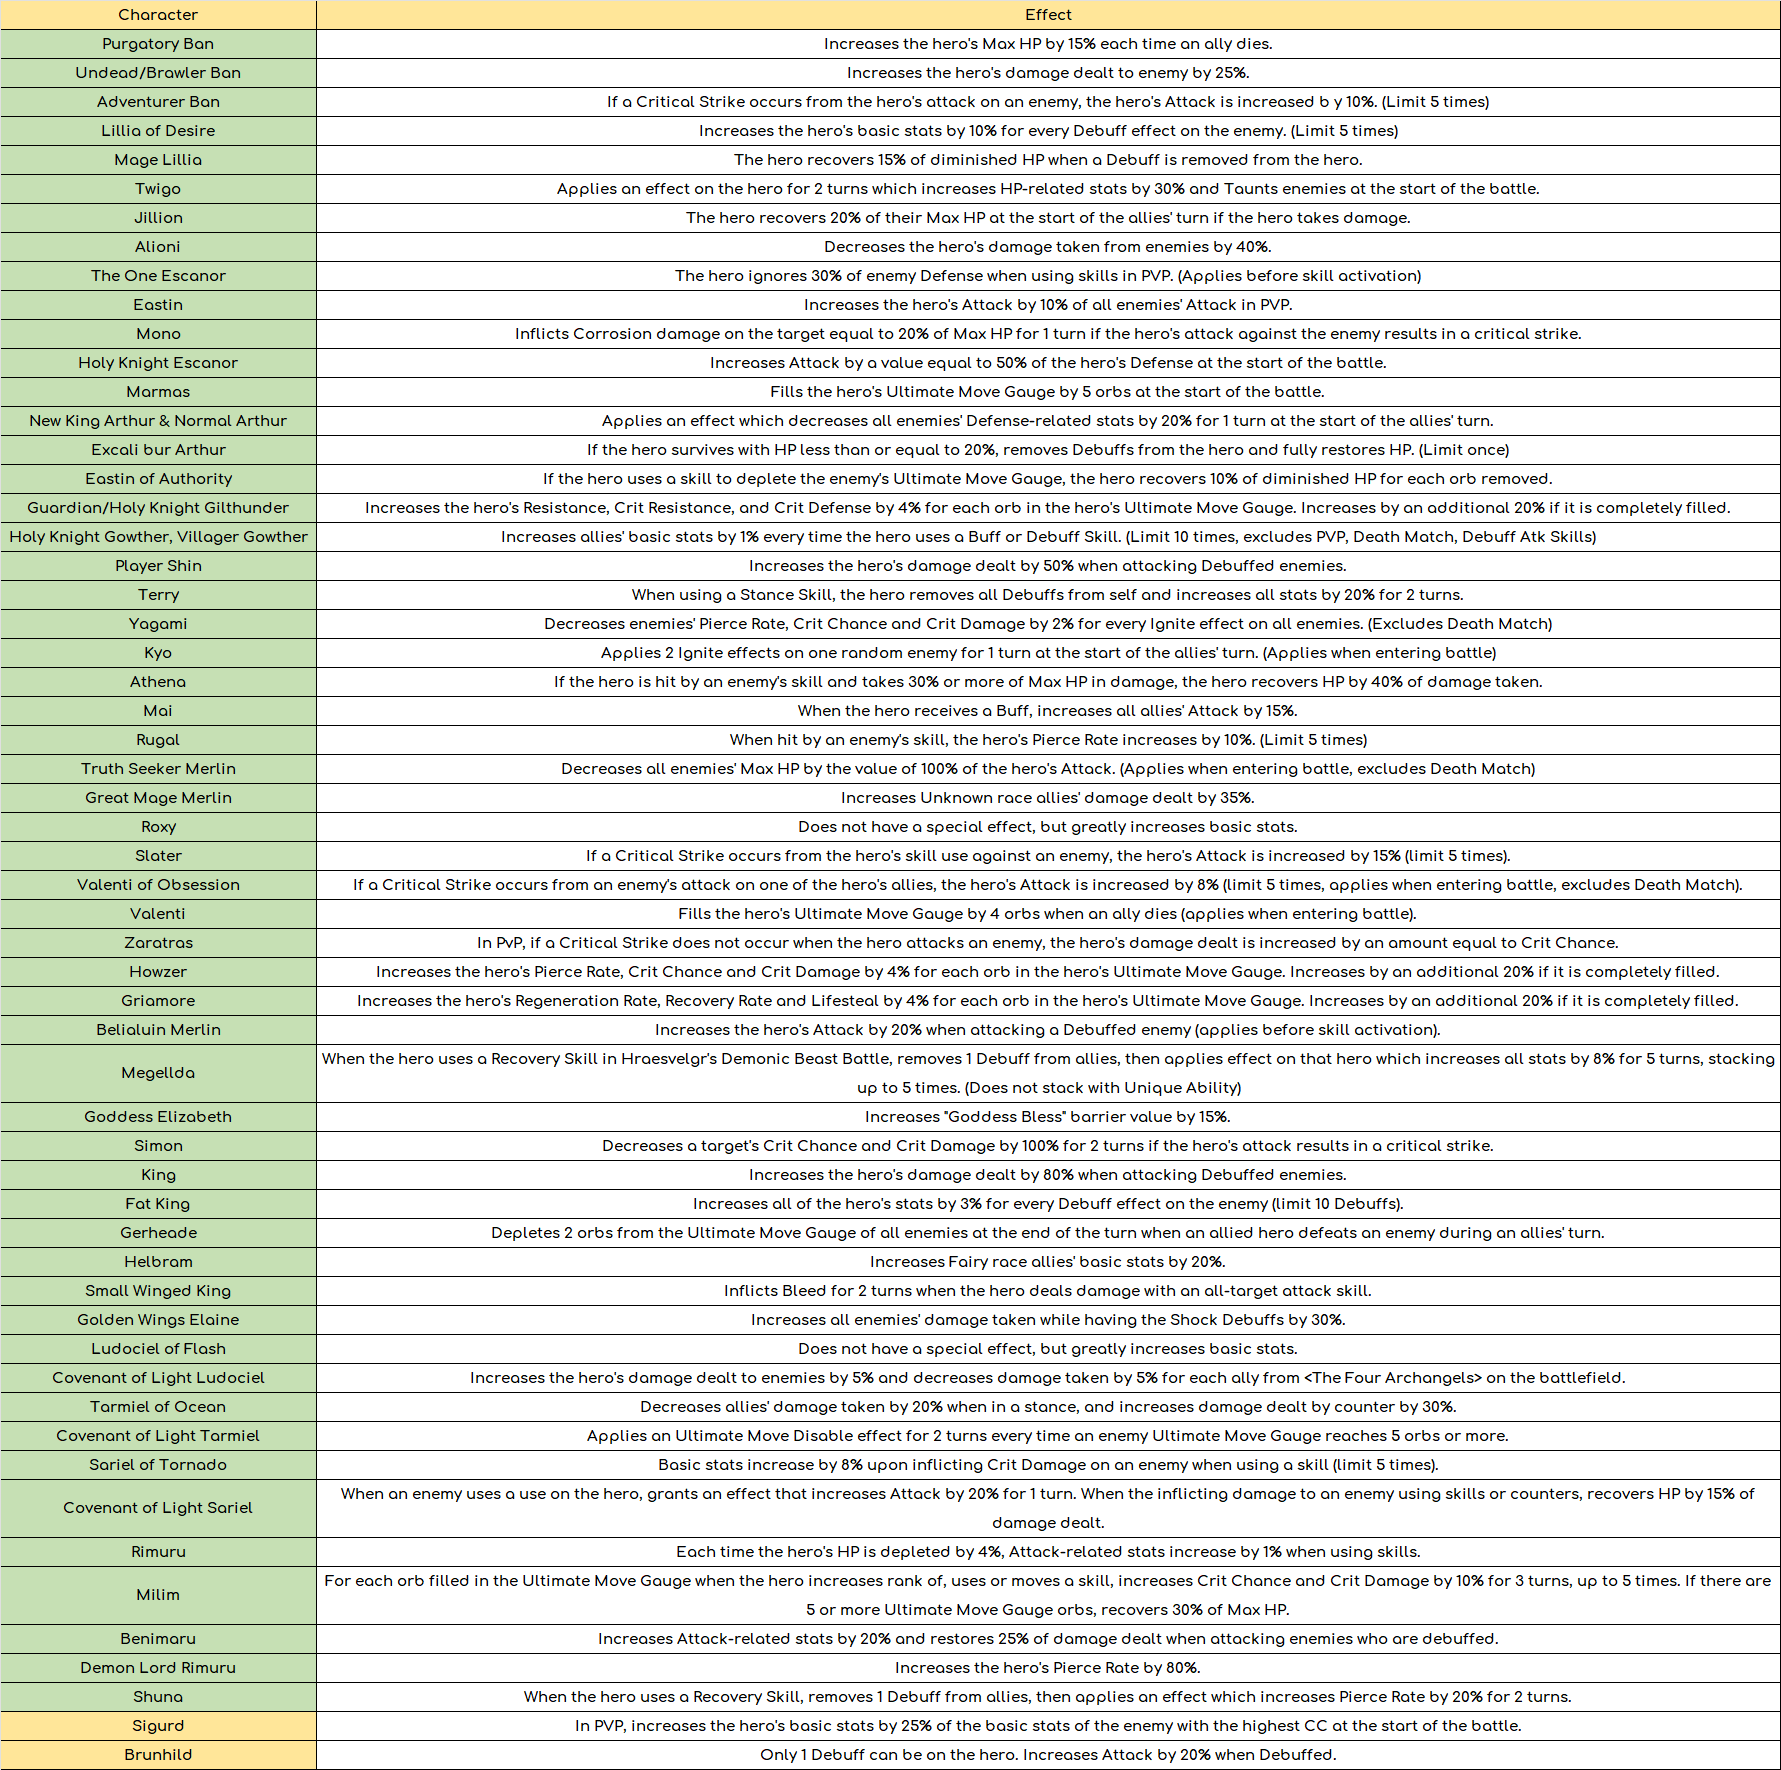
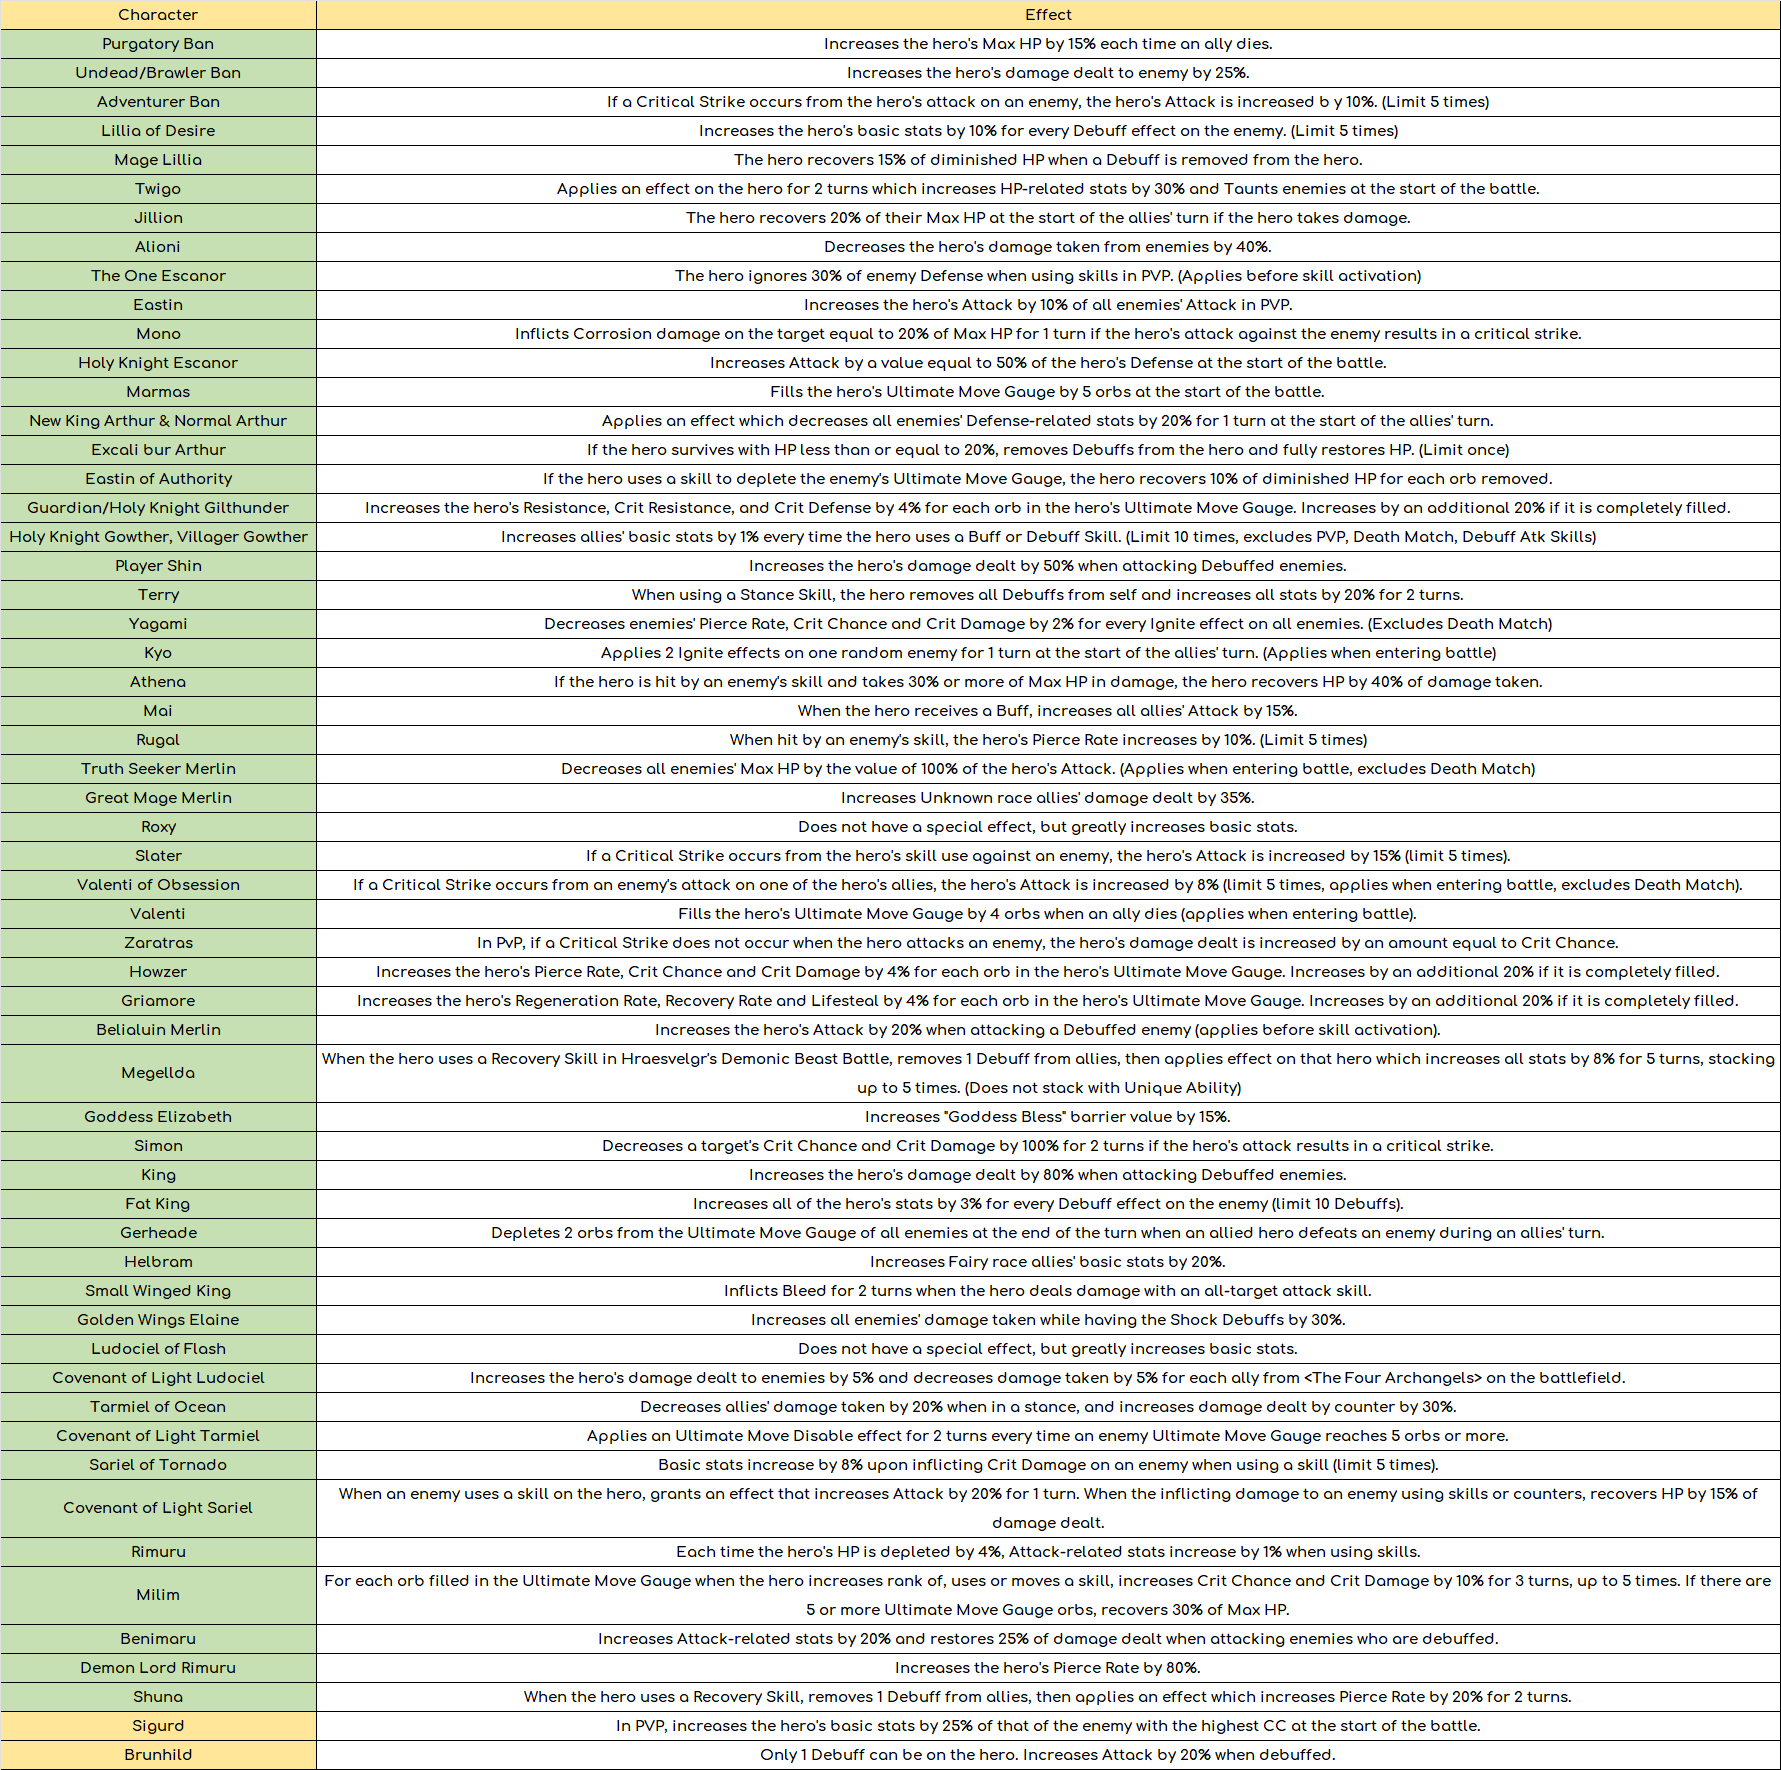
relic fix

Changed region(s): [[0.1853, 0.839, 0.9882, 0.8701], [0.3397, 0.9633, 0.8338, 0.9944]]

diff --git a/characters/gowther/4.html b/characters/gowther/4.html
@@ -359,7 +359,7 @@
 										<td>Pierce Rate+19.2%</td>
 									</tr>
 									<tr>
-										<td style="font-size: 0.65rem"><a href="../rimuru/1"><img src="../../images/characters/rimuru/ssrb_portrait.webp" style="width: 50px" loading="lazy"><br><small>&#91;Ruler of Monsters&#93;</small><br>Rimuru=Tempest</a></td>
+										<td style="font-size: 0.65rem"><a href="../rimuru/1"><img src="../../images/characters/rimuru/ssrb_portrait.webp" style="width: 50px" loading="lazy"><br><small>&#91;Ruler of Monsters&#93;</small><br>Rimuru Tempest</a></td>
 										<td>Pierce Rate+19.2%</td>
 									</tr>
 									<tr>

diff --git a/characters/covenant_of_light_sariel/1.html b/characters/covenant_of_light_sariel/1.html
@@ -339,7 +339,7 @@
 										<td>ATK+300<br>DEF+300<br>HP+2300</td>
 									</tr>
 									<tr>
-										<td>When an enemy uses a use on the hero, grants an effect that increases Attack by 20% for 1 turn. When the inflicting damage to an enemy using skills or counters, recovers HP by 15% of damage dealt.</td>
+										<td>When an enemy uses a skill on the hero, grants an effect that increases Attack by 20% for 1 turn. When the inflicting damage to an enemy using skills or counters, recovers HP by 15% of damage dealt.</td>
 									</tr>
 								</tbody>
 							</table>

diff --git a/characters/slimuru/1.html b/characters/slimuru/1.html
@@ -3,9 +3,9 @@
 <head>
 	<meta charset="utf-8">
 	<meta name="viewport" content="width=device-width, initial-scale=1, shrink-to-fit=no">
-	<meta name="description" content="[Slime] Rimuru=Tempest - SR, HP/Green">
+	<meta name="description" content="[Slime] Rimuru Tempest - SR, HP/Green">
 	<meta name="author" content="">
-	<title>Rimuru=Tempest, Slime</title>
+	<title>Rimuru Tempest, Slime</title>
 	<!-- Favicons -->
 	<link href="../../images/favicon.png" rel="icon">
 	<link href="../../images/apple-touch-icon.png" rel="apple-touch-icon">
